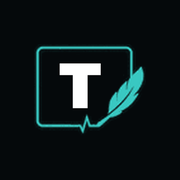
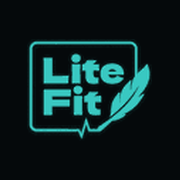
Add files via upload

Changed region(s): [[0.1389, 0.2222, 0.8611, 0.7778]]

diff --git a/trening/index.html b/trening/index.html
@@ -9,8 +9,8 @@
 <meta name="apple-mobile-web-app-capable" content="yes">
 <meta name="mobile-web-app-capable" content="yes">
 <meta name="apple-mobile-web-app-status-bar-style" content="black-translucent">
-<meta name="apple-mobile-web-app-title" content="Тренировки">
-<title>Тренировки Lite Fit</title>
+<meta name="apple-mobile-web-app-title" content="Lite Fit">
+<title>Lite Fit</title>
 <link rel="manifest" href="manifest.webmanifest">
 <link rel="apple-touch-icon" href="apple-touch-icon.png">
 <link rel="icon" type="image/png" href="icon-192.png">
@@ -446,6 +446,8 @@ body.has-sheet .toast{bottom:auto;top:calc(var(--safe-t) + 66px)}
 .rst{display:inline-flex;align-items:center;gap:6px;min-height:40px;margin:-4px 0 12px;font-size:13.5px;font-weight:700;color:var(--muted)}
 .rst svg{width:16px;height:16px}
 .topr{display:flex;align-items:center;gap:4px}
+.cabb{display:flex;align-items:center;gap:4px;height:40px;padding:0 12px 0 8px;border-radius:20px;border:1px solid var(--line2);font-size:13.5px;font-weight:800;color:var(--accent);text-decoration:none;margin-right:4px}
+.cabb svg{width:16px;height:16px}
 .qb{width:40px;height:40px;border-radius:50%;border:1px solid var(--line2);display:grid;place-items:center;font-size:17px;font-weight:800;color:var(--accent)}
 .help h3{margin:20px 0 6px;font-size:16px;font-weight:800}
 .help h3:first-of-type{margin-top:4px}
@@ -759,6 +761,11 @@ body.emb .app{padding-bottom:calc(var(--safe-b,0px) + 110px)}
 'use strict';
 /*
  * LITE FIT — тренировки (своя замена TRNR). Одна страница для тренера и клиента.
+ * 4.2 (25.10.2026). Сервер 4.19.0. Единый кабинет, шаг 1: значок и название на экране телефона – Lite Fit (как у кабинета),
+ *   область приложения – вся папка anketa, поэтому кабинет и тренировки открываются в одном окне. У клиента с кабинетом
+ *   (PRO, START, BASIC после PRO) вверху – кнопка «Кабинет»; если тренировки открыл кабинет (from=cab), а кабинет у клиента
+ *   уже есть, – страница сама возвращает в кабинет. Клиент BASIC: вкладки «Тренировки», «Прогресс» (что откроется в PRO и
+ *   «Хочу PRO» – заявка тренеру), «Тренер», «Награды», «Инструкция».
  * 4.0 (25.10.2026). Сервер 4.16.0. В карточке клиента у тренера – «Бот клиента»: подключён ли, что придёт в ближайшие 14 дней
  *   и что бот уже отправил (журнал с установки 4.16), и «Как работают уведомления» – что и когда получают клиенты FREE, BASIC,
  *   BASIC после PRO, PRO и START.
@@ -884,7 +891,7 @@ body.emb .app{padding-bottom:calc(var(--safe-b,0px) + 110px)}
  * Клиент: тренировки приходят одним запросом и хранятся на телефоне; отметки подходов сохраняются сами через пару секунд,
  * несохранённое лежит в памяти телефона и уходит при следующем открытии.
  */
-var VERSION = '4.1';
+var VERSION = '4.2';
 var API = String(window.LF_API || '').trim();
[1 lines of base64/hex data omitted]
 var app = document.getElementById('app'), tabsEl = document.getElementById('tabs'), barEl = document.getElementById('bar'), toastEl = document.getElementById('toast');
@@ -1222,6 +1229,7 @@ function syncText() {
   return S.loadedAt ? 'обновлено ' + new Date(S.loadedAt).toLocaleTimeString('ru-RU', { hour: '2-digit', minute: '2-digit' }) : '';
 }
 function topHtml() { return '<div class="top"><img src="' + LOGO + '" alt="Lite Fit"><div class="topr"><button class="sync' + (S.busy ? ' busy' : '') + '" id="sync" data-act="refresh" aria-label="Обновить"><span>' + esc(syncText()) + '</span>' + IC.sync + '</button>' +
+  (MODE === 'client' && M && M.cabk ? '<a class="cabb" href="../cabinet/?k=' + encodeURIComponent(M.cabk) + '">' + IC.back + 'Кабинет</a>' : '') +   // 4.2
   (MODE === 'client' ? '<button class="qb" data-act="help" aria-label="Как пользоваться" title="Как пользоваться">?</button>' : '') + '</div></div>'; }
 function paintSync() { var el = document.getElementById('sync'); if (el) { el.className = 'sync' + (S.busy ? ' busy' : ''); el.firstChild.textContent = syncText(); } }
 var KEEP_SCROLL = ['.ed-ref', '.md-l', '.vd-r', '#sugg'];     // 2.6: панели со своей прокруткой (прошлая тренировка справа, список клиентов)
@@ -2581,11 +2589,13 @@ try { PEND = JSON.parse(LS.get(PEND_KEY) || '{}') || {}; } catch (e) { PEND = {}
 function pendCount() { return Object.keys(PEND).length; }
 function pendSave() { LS.set(PEND_KEY, JSON.stringify(PEND)); if (M) { try { LS.set(MEM_C, JSON.stringify({ at: S.loadedAt, m: M })); } catch (e) {} } }
 function myOf(id) { return M ? M.list.filter(function (w) { return w.id === id; })[0] || null : null; }
+/** 4.2: клиент BASIC (не FREE) – вкладка «Прогресс» с тем, что откроется в PRO. */
+function isBasic() { return !!(M && !M.free && M.fmt === 'BASIC'); }
 function setMy(r) {
   var keep = {};
   if (M) M.list.forEach(function (w) { if (PEND[w.id] && w.items) keep[w.id] = w; });           // несохранённое не затираем ответом сервера
   var rdWas = {}; if (M && M.msgs) M.msgs.forEach(function (m) { if (m.rd) rdWas[m.id] = m.rd; });
-  M = { free: !!r.free, fend: r.fend || '', fwant: r.fwant || null, fowner: r.fowner || '', name: r.name, today: r.today, acc: r.acc || { b: 3, a: 2 }, total: r.total || 0, doneN: r.doneN || 0, list: r.list || [], closed: !!r.closed, pk: r.pk || null, totalDone: r.totalDone,
+  M = { fmt: r.fmt || '', cabk: r.cabk || '', free: !!r.free, fend: r.fend || '', fwant: r.fwant || null, fowner: r.fowner || '', name: r.name, today: r.today, acc: r.acc || { b: 3, a: 2 }, total: r.total || 0, doneN: r.doneN || 0, list: r.list || [], closed: !!r.closed, pk: r.pk || null, totalDone: r.totalDone,
     pay: r.pay || '', aw: r.aw || null, tg: r.tg || null, msgs: (r.msgs || []).map(function (m) { if (!m.rd && rdWas[m.id]) m.rd = rdWas[m.id]; return m; }) };
   M.list = M.list.map(function (w) { var k = keep[w.id]; if (k && w.items) { w.items = k.items; w.ts = k.ts; w.te = k.te; if (PEND[w.id].done !== undefined) { w.done = k.done; w.doneAt = k.doneAt; } } return w; });
   Object.keys(PEND).forEach(function (id) { var w = myOf(id); if (!w || !w.items) delete PEND[id]; });
@@ -2685,6 +2695,9 @@ function loadMy(first, quiet) {
     if (r.auth) return;
     if (!r.ok) { S.offline = !!r.net; if (M) paintSync(); else screen('Не получилось загрузить', errText(r), true); return; }
     S.offline = false; setMy(r); updCheck(r);
+    if (M.cabk && qs.get('from') === 'cab') {                               // 4.2: открыл кабинет, а кабинет у клиента уже есть – назад в кабинет
+      LS.del('lf_wko_' + CKEY.slice(0, 12)); location.replace('../cabinet/?k=' + encodeURIComponent(M.cabk)); return;
+    }
     if (r.cv !== undefined) CV.v = String(r.cv);
     cvArm();
     if (S.view === 'run' && !myOf(S.run)) S.view = 'home';
@@ -3091,7 +3104,7 @@ function isIos() { return /iphone|ipad|ipod/i.test(navigator.userAgent) || (navi
 function installHow() { return isIos() ? 'Safari: кнопка «Поделиться» внизу → «На экран „Домой“» → «Добавить».' : 'Chrome: меню ⋮ вверху справа → «Добавить на главный экран» или «Установить приложение».'; }
 function installCard() {
   if (standalone() || LS.get('lf_wk_inst_hide')) return '';
-  return '<div class="card install' + (INST_N < 3 ? ' pulse' : '') + '"><div class="ic">' + IC.home + '</div><div style="flex:1"><p><b>Добавьте тренировки на экран телефона</b></p><p>' + installHow() + '</p>' +
+  return '<div class="card install' + (INST_N < 3 ? ' pulse' : '') + '"><div class="ic">' + IC.home + '</div><div style="flex:1"><p><b>Добавьте Lite Fit на экран телефона</b></p><p>' + installHow() + '</p>' +
     (deferredInstall ? '<button class="btn sec sm mt" data-act="install">Добавить</button>' : '') + '</div><button class="x" data-act="hideInstall" aria-label="Скрыть">' + IC.x + '</button></div>';
 }
 /** Картинка в справке: карточка упражнения, цифрами отмечено, куда нажимать. Только для показа, не нажимается. */
@@ -3153,6 +3166,7 @@ function wantBtn(fmt, cls) {
   return '<button class="btn ' + (on ? 'sec' : cls || 'pri') + '" data-act="fwant" data-f="' + fmt + '"' + (on ? ' disabled' : '') + '>' + (on ? 'Заявка на ' + fmt + ' отправлена ✓' : 'Хочу ' + fmt) + '</button>';
 }
 function viewShow() {
+  if (isBasic()) return viewShowBasic();                                   // 4.2
   var bars = function (a) { return '<div class="rows">' + a.map(function (x) { return '<div class="row" style="min-height:0;padding:8px 0"><span class="mn"><b>' + x[0] + '</b><small>' + x[1] + '</small></span></div>'; }).join('') + '</div>'; };
   var chart = '<svg viewBox="0 0 300 90" style="width:100%;height:90px"><polyline points="0,20 40,28 80,26 120,40 160,46 200,52 240,62 300,70" fill="none" stroke="var(--accent)" stroke-width="3"/><line x1="0" y1="88" x2="300" y2="88" stroke="var(--line2)"/></svg>';
   return '<h1 class="hello">Прогресс</h1><p class="lead-p">Так выглядит кабинет Lite Fit на полном сопровождении. В FREE эти разделы закрыты – они открываются в START и PRO.</p>' +
@@ -3161,6 +3175,21 @@ function viewShow() {
     showCard('Замеры и фото', 'START', 'Стартовые замеры и фото – чтобы видеть изменения, а не гадать.', bars([['Талия', '84 → 80 см'], ['Бёдра', '101 → 98 см'], ['Фото', 'спереди, сбоку, сзади']])) +
     showCard('Шаги, гайды, итоги месяца', 'PRO', 'Норма шагов, гайды по разминке, растяжке и питанию, итоги месяца с коллажем фото.', bars([['Шаги', '8 400 из 8 000'], ['Гайды', 'разминка, растяжка, питание'], ['Итоги октября', 'тренировок 12 · −2,1 кг']])) +
     '<button class="btn sec" data-act="ctab" data-v="next" style="margin-top:4px">' + IC.next + 'Сравнить форматы</button>';
+}
+/** 4.2: клиент BASIC – что откроется в PRO и «Хочу PRO». */
+function viewShowBasic() {
+  var bars = function (a) { return '<div class="rows">' + a.map(function (x) { return '<div class="row" style="min-height:0;padding:8px 0"><span class="mn"><b>' + x[0] + '</b><small>' + x[1] + '</small></span></div>'; }).join('') + '</div>'; };
+  var chart = '<svg viewBox="0 0 300 90" style="width:100%;height:90px"><polyline points="0,20 40,28 80,26 120,40 160,46 200,52 240,62 300,70" fill="none" stroke="var(--accent)" stroke-width="3"/><line x1="0" y1="88" x2="300" y2="88" stroke="var(--line2)"/></svg>';
+  var w = M.fwant && M.fwant.fmt === 'PRO' ? M.fwant : null;
+  return '<h1 class="hello">Прогресс</h1><p class="lead-p">Ваш формат – BASIC: тренировки с тренером. Ниже – что ещё есть в кабинете Lite Fit на PRO, если захотите видеть не только тренировки, но и весь результат.</p>' +
+    (w ? '<div class="banner done"><b>Заявка на PRO отправлена ' + dm(w.at) + '.</b> Тренер' + (M.fowner ? ' ' + esc(M.fowner) : '') + ' напишет Вам и всё расскажет. Ссылка и все тренировки останутся теми же.</div>' : '') +
+    showCard('Дневник питания и вес', 'PRO', 'Норма КБЖУ под Вашу цель, дневник питания и вес каждый день.', bars([['Калории', '1 840 из 1 900 ккал'], ['Белки', '112 из 120 г'], ['Вес', '78,4 кг · −1,2 кг за 2 недели']])) +
+    showCard('Графики', 'PRO', 'Как меняются вес, питание и дисциплина – на графиках.', chart) +
+    showCard('Замеры и фото', 'PRO', 'Контрольные замеры и фото – чтобы видеть изменения, а не гадать.', bars([['Талия', '84 → 80 см'], ['Бёдра', '101 → 98 см'], ['Фото', 'спереди, сбоку, сзади']])) +
+    showCard('Шаги, гайды, итоги месяца', 'PRO', 'Норма шагов, гайды по разминке, растяжке и питанию, итоги месяца с коллажем фото.', bars([['Шаги', '8 400 из 8 000'], ['Гайды', 'разминка, растяжка, питание'], ['Итоги октября', 'тренировок 12 · −2,1 кг']])) +
+    '<div class="card offer rec"><div class="fs-h"><h3>PRO</h3><span class="pill ok">тренировки + питание</span></div><p class="sub">Всё, что есть в BASIC, и полное сопровождение результата.</p>' +
+    '<ul class="ofl">' + ['Тренировки и тренер – как сейчас', 'Норма КБЖУ и дневник питания', 'Вес, графики, контрольные замеры и фото', 'Шаги, гайды и итоги месяца'].map(function (x) { return '<li>' + IC.check + '<span>' + x + '</span></li>'; }).join('') + '</ul>' +
+    wantBtn('PRO', 'pri') + '</div>';
 }
 function viewNext() {
   var w = M.fwant, offer = function (fmt, tag, t, list, rec) {
@@ -3180,6 +3209,7 @@ function helpSections() {
   var old = {}, order = [];
   raw.split('<h3>').slice(1).forEach(function (x) { var i = x.indexOf('</h3>'); var t = x.slice(0, i); old[t] = x.slice(i + 5); order.push(t); });
   var tabs = old['Вкладки внизу'];
+  if (tabs && isBasic()) tabs = tabs.replace('<li><b>«Тренер»</b>', '<li><b>«Прогресс»</b> – что ещё есть в кабинете Lite Fit на PRO: питание, вес, замеры, фото, шаги. «Хочу PRO» – заявка тренеру.</li><li><b>«Тренер»</b>');   // 4.2
   if (tabs) old['Вкладки внизу'] = tabs.replace(/<\/ul>\s*$/, '<li><b>«Инструкция»</b> – все подсказки по разделам, открываются в любой момент.</li></ul>');
   if (!M || !M.free) return order.map(function (t) { return [t, old[t]]; });
   var L = [];
@@ -3485,6 +3515,7 @@ function paintBar() {
     var cu = msgUnread().length, cb = function (v, icon, t, n) { return '<button data-act="ctab" data-v="' + v + '" class="' + (S.ctab === v ? 'on' : '') + '">' + icon + '<span>' + t + '</span>' + (n ? '<i class="tb num">' + n + '</i>' : '') + '</button>'; };
     tabsEl.hidden = false;
     tabsEl.innerHTML = M.free ? '<nav style="grid-template-columns:repeat(5,1fr)">' + cb('w', IC.base, 'Тренировки', 0) + cb('show', IC.chart, 'Прогресс', 0) + cb('coach', IC.coach, 'Тренер', cu) + cb('next', IC.next, 'Что дальше', 0) + cb('help', IC.info, 'Инструкция', 0) + '</nav>'
+      : isBasic() ? '<nav style="grid-template-columns:repeat(5,1fr)">' + cb('w', IC.base, 'Тренировки', 0) + cb('show', IC.chart, 'Прогресс', 0) + cb('coach', IC.coach, 'Тренер', cu) + cb('aw', IC.award, 'Награды', 0) + cb('help', IC.info, 'Инструкция', 0) + '</nav>'   // 4.2
       : '<nav style="grid-template-columns:repeat(4,1fr)">' + cb('w', IC.base, 'Тренировки', 0) + cb('coach', IC.coach, 'Тренер', cu) + cb('aw', IC.award, 'Награды', 0) + cb('help', IC.info, 'Инструкция', 0) + '</nav>';
   }
   barEl.hidden = !h; barEl.innerHTML = h ? '<div class="in">' + h + '</div>' : '';
@@ -3505,7 +3536,7 @@ function render() {
   } else {
     if (!M) return;
     if (S.view === 'run' && !myOf(S.run)) S.view = 'home';
-    h += S.view === 'run' ? viewRun() : S.ctab === 'coach' ? viewCoach() : S.ctab === 'aw' ? viewAw() : S.ctab === 'help' ? viewHelp() : S.ctab === 'show' && M.free ? viewShow() : S.ctab === 'next' && M.free ? viewNext() : S.ctab === 'aw' && !M.free ? viewAw() : viewMy();
+    h += S.view === 'run' ? viewRun() : S.ctab === 'coach' ? viewCoach() : S.ctab === 'aw' ? viewAw() : S.ctab === 'help' ? viewHelp() : S.ctab === 'show' && (M.free || isBasic()) ? viewShow() : S.ctab === 'next' && M.free ? viewNext() : S.ctab === 'aw' && !M.free ? viewAw() : viewMy();
   }
   h += '<p class="ver">Lite Fit · тренировки ' + VERSION + '</p>';
   shell(MODE === 'trainer'); app.innerHTML = h; paintBar();
